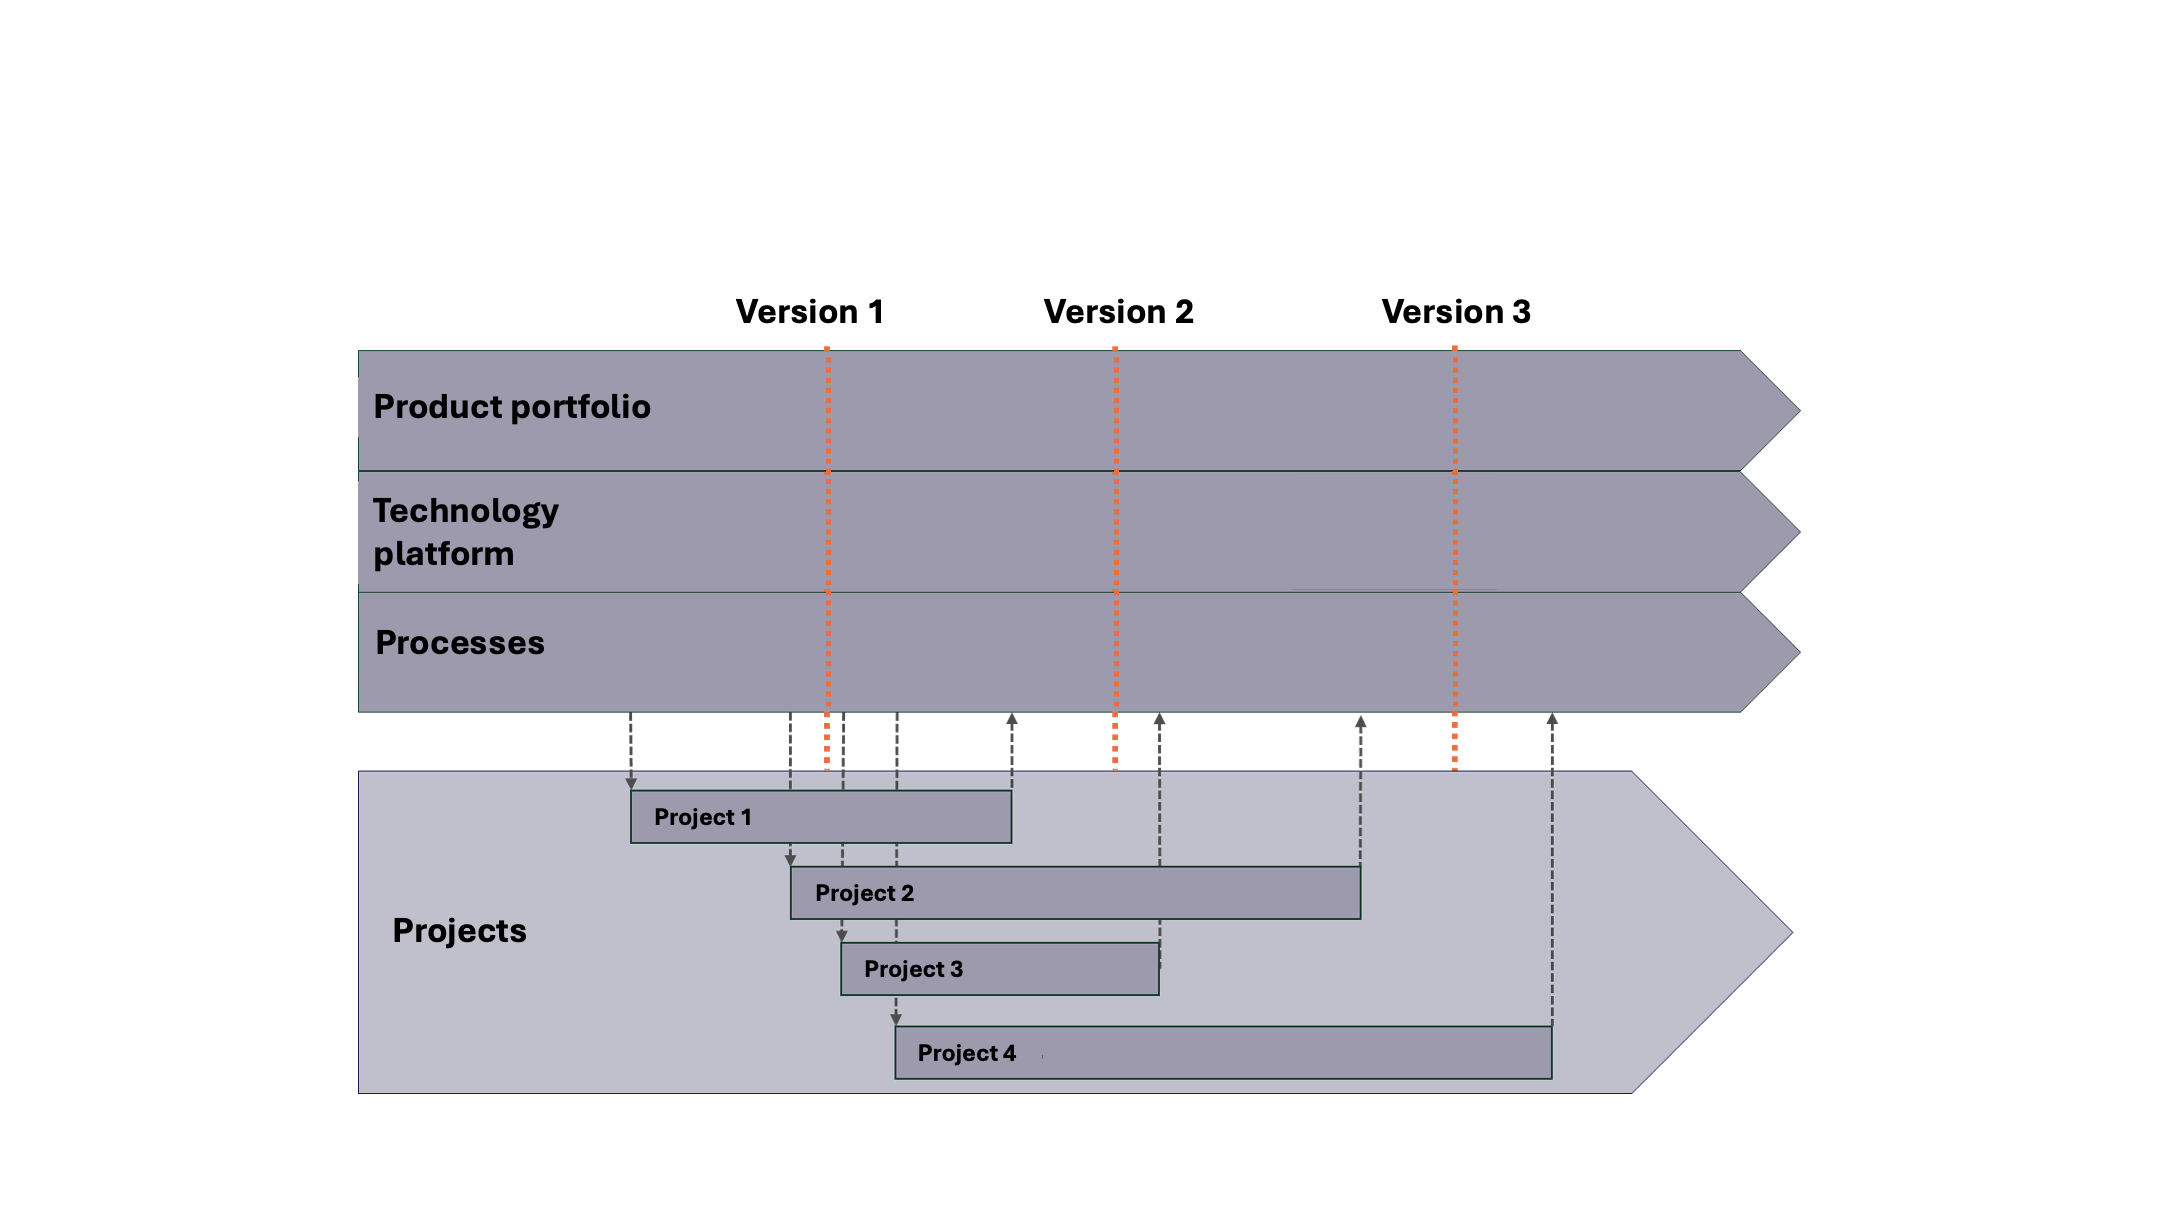
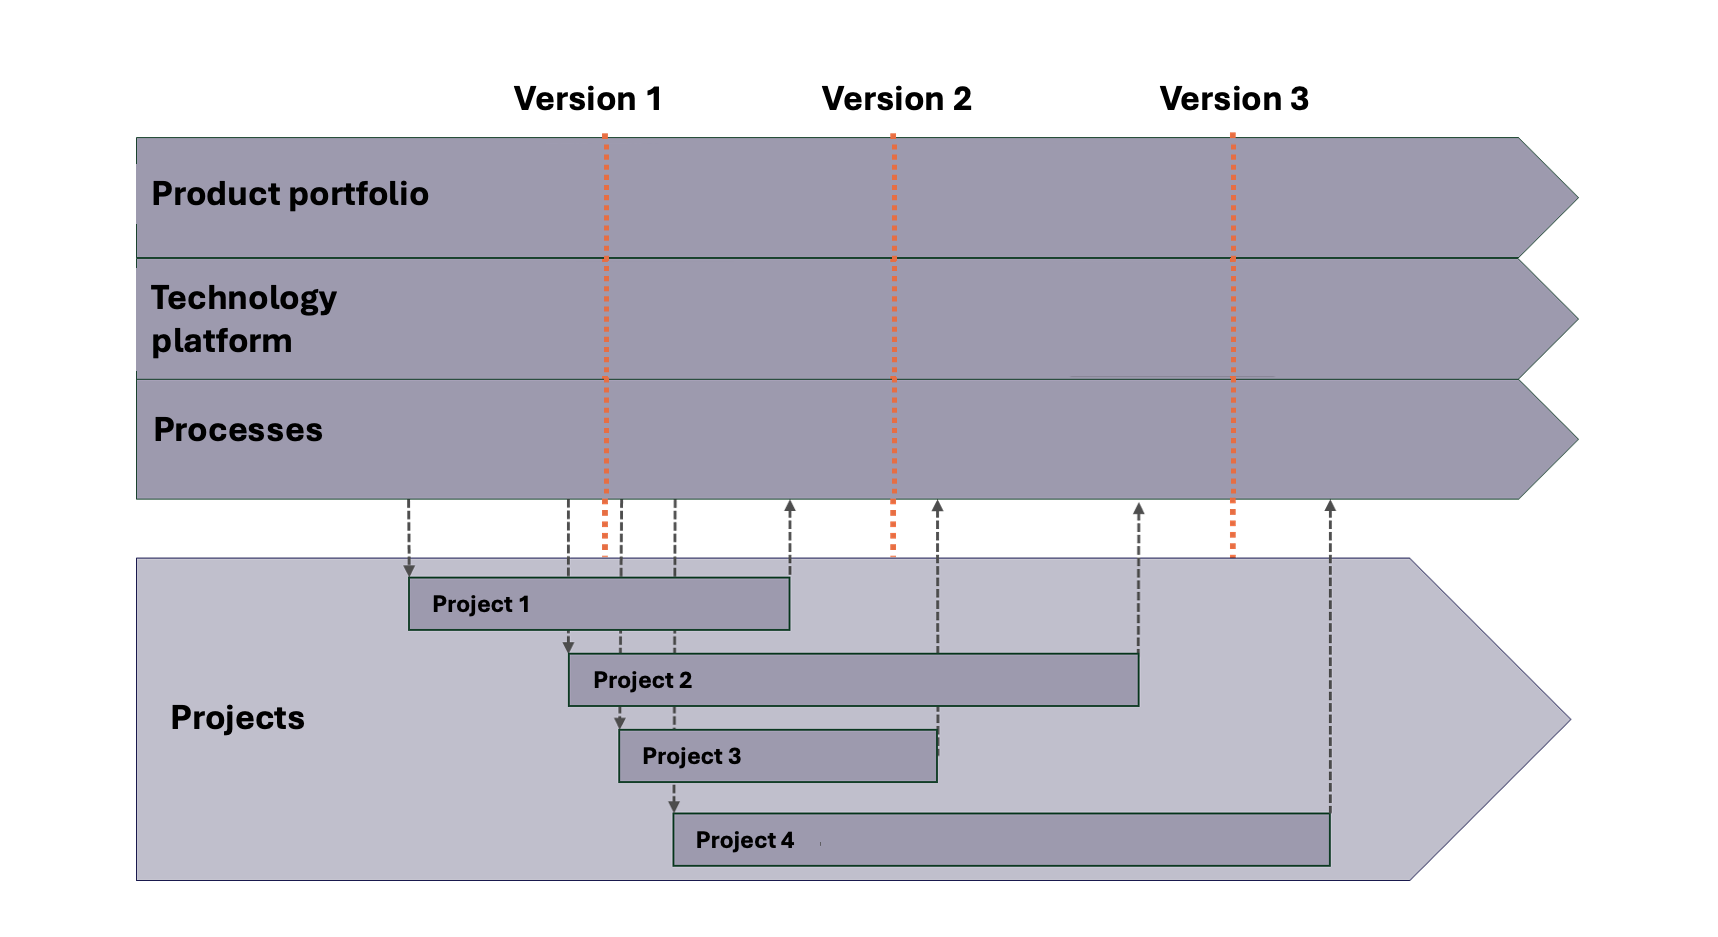
style change

diff --git a/index.html b/index.html
@@ -99,14 +99,17 @@ $(function(){
 
 <!--INTRODUCTION SECTION-->
     <div id="introduction"><h2 id="intro" class="list">Introduction <span class="backlink"> back to <a href="#toc">ToC</a></span></h2>
-<span class="markdown">
+
 <p>The <b>Project Production Management (PPM) Ontology</b> provides a structured, machine-readable framework for representing standardized organizational information and knowledge in <b>Industrialized Construction (IC)</b>. It was developed to address a key challenge in IC: while construction firms increasingly adopt product and process standardization, the information supporting these practices remains fragmented, inconsistently structured, and difficult to reuse across projects.</p>
 
 <p>The PPM Ontology formalizes critical concepts such as standardized <b>work packages</b>, <b>job cards</b>, and <b>house models</b>, enabling organizations to build a coherent digital knowledge base that supports planning, workflow control, and continuous learning.</p>
 
 <p>To situate the ontology in context, Figure 1 illustrates the <b>PPM Framework</b>. This framework outlines the iterative processes of <b>Specification</b>, <b>Planning and Production</b>, and <b>Learning</b>. It shows how standardized information captured at each stage drives continuous improvement across projects, highlighting the need for a structured information model like the PPM Ontology.</p>
 
-<p><img src="img/PPM_framework.png" alt="Figure 1: The PPM Framework"></p>
+<figure style="text-align: center; margin-top: 2px;">
+  <img src="img/PPM_framework.png" alt="Figure 1: The PPM Framework" style="max-width: 50%; height: auto; display: block; margin-left: auto; margin-right: auto;">
+  <figcaption style="margin-top: 8px; font-size: 1 em; color: black;">Figure 1: The PPM Framework</figcaption>
+</figure>
 
 <p>The core structure of the PPM Ontology mirrors the key information dimensions needed for effective production management. As shown in Figure 2, the ontology is divided into four parts:</p>
 
@@ -117,7 +120,11 @@ $(function(){
   <li>Variable: Capturing dynamic changes in resources and task states.</li>
 </ul>
 
-<p><img src="img/ppm_architecture.png" alt="Figure 2: Architecture and Core Conceptualization of the PPM Ontology"></p>
+<figure style="text-align: center; margin-top: 2px;">
+  <img src="img/ppm_architecture.png" alt="Figure 2: Architecture and Core Conceptualization of the PPM Ontology" style="max-width: 70%; height: auto; display: block; margin-left: auto; margin-right: auto;">
+  <figcaption style="margin-top: 8px; font-size: 1 em; color: black;">Figure 2: Architecture and Core Conceptualization of the PPM Ontology</figcaption>
+</figure>
+
 
 <p>The PPM Ontology serves a diverse range of users:</p>
 
@@ -129,7 +136,7 @@ $(function(){
 
 <p>As construction firms move toward more industrialized, data-driven practices, the PPM Ontology provides a robust, extensible foundation for managing organizational knowledge and enhancing operational efficiency. Future extensions aim to integrate the ontology with AI-based assistants and broader <strong>Product Lifecycle Management (PLM)</strong> systems, further supporting digital transformation in construction.</p>
 
-</span>
+
 <div id="namespacedeclarations">
 <h3 id="ns" class="list">Namespace declarations</h3>
 <div id="ns" align="center">
